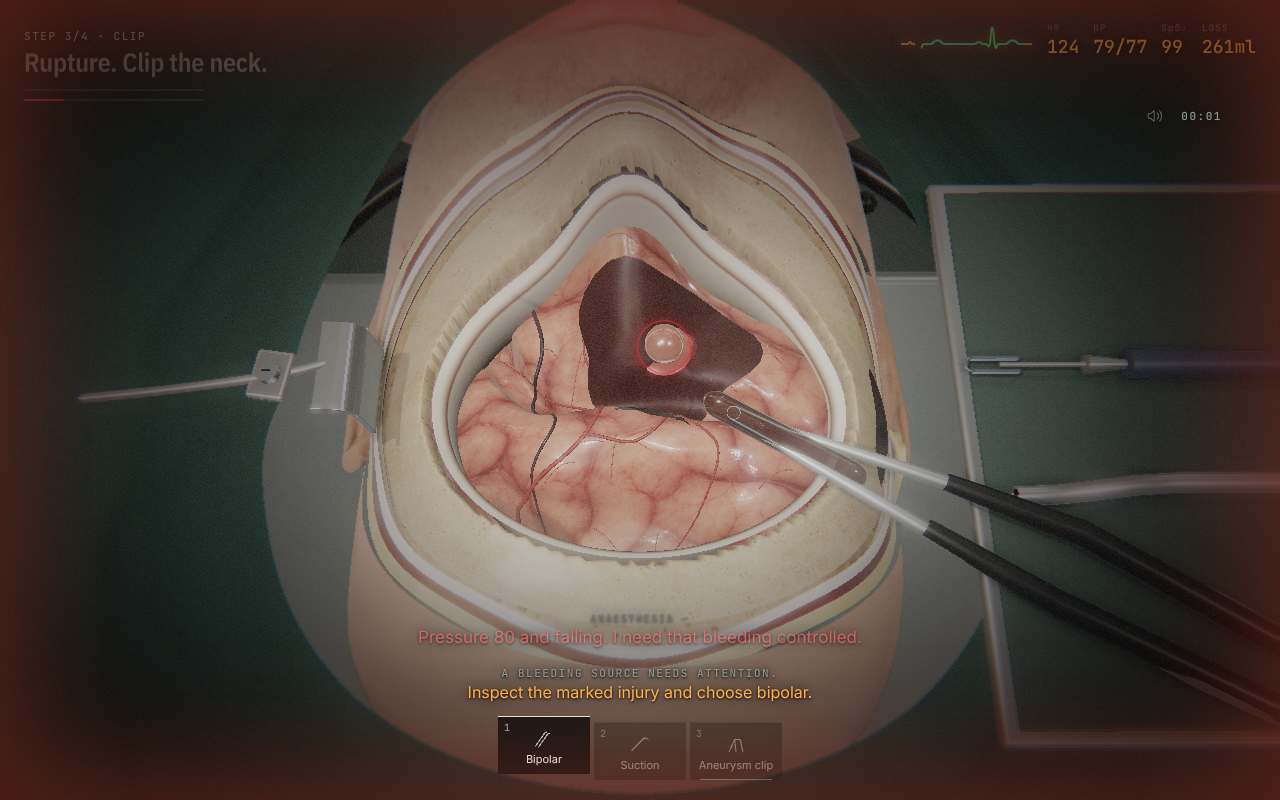
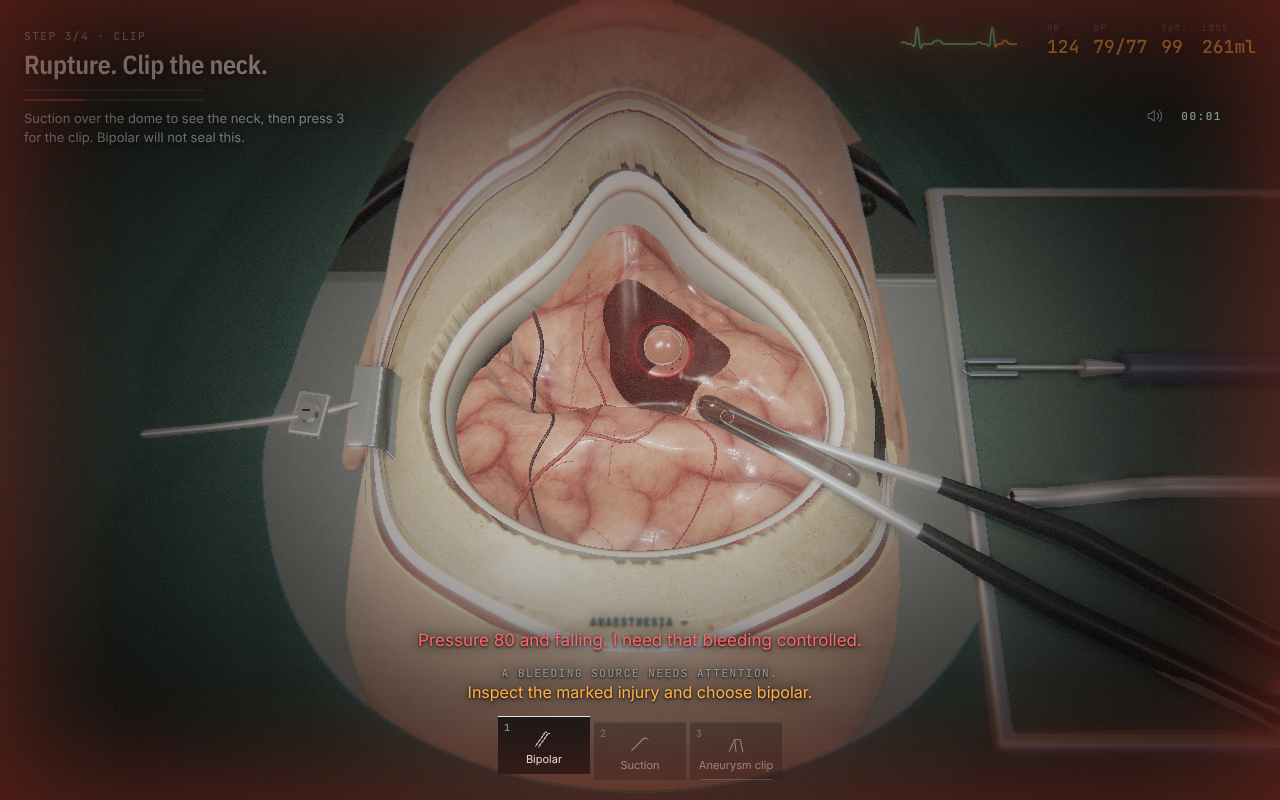
Review fixes: raw-edge scalp seam, no-head fallback, retractor on skull, aim by bisection, load ordering, depth material disposal
Claude-Session: https://claude.ai/code/session_01KH8wVLk59Yy76nRwxWbc5r

diff --git a/src/game/engine.ts b/src/game/engine.ts
@@ -134,7 +134,6 @@ export class Engine {
   softTissue: SoftTissue | null = null;
   accessPhase: "bone" | "lifting" | "surgery" = "bone";
   trayView = false;
-  /** A scrub-nurse handoff in progress: the old tool drops out, the new one rises in. */
   skull = new Skull();
   patient: PatientHead | null = null;
   /** Re-sample the skull surface after the head has moved (also used to tune the pose in development). */
@@ -461,9 +460,11 @@ export class Engine {
         /* the built-in room environment stays */
       }
       try {
-        this.patient = await loadPatientHead(assetBase, loader);
-        this.scene.add(this.patient.mesh);
+        const head = await loadPatientHead(assetBase, loader);
+        if (this.disposed) return;
+        this.patient = head;
         this.rebuildSkull();
+        this.scene.add(head.mesh);
       } catch {
         this.patient = null; // the flat plate with a gentle dome remains
       }
@@ -790,15 +791,30 @@ export class Engine {
       if (strict && this.ray.ray.direction.z > -0.15) return; // looking sideways: nothing to cut
       // Aim on the original convex shell so a deepening groove cannot pull
       // the pointer sideways. Working depth follows the carved surface.
+      // The skull is curved, so solve ray.z(t) = bone(x, y) by marching and bisecting.
       const p = new THREE.Vector3();
-      let z = 0.5;
-      for (let i = 0; i < 5; i++) {
-        this.ray.ray.at(
-          (z - this.ray.ray.origin.z) / this.ray.ray.direction.z,
-          p,
-        );
-        z = this.bone.height(p.x, p.y);
+      const gap = (t: number) => {
+        this.ray.ray.at(t, p);
+        return p.z - this.bone!.height(p.x, p.y);
+      };
+      let lo = 0,
+        hi = 0,
+        found = false;
+      for (let t = 0.25; t < 60; t += 0.25) {
+        if (gap(t) <= 0) {
+          hi = t;
+          lo = t - 0.25;
+          found = true;
+          break;
+        }
       }
+      if (!found) return;
+      for (let i = 0; i < 18; i++) {
+        const mid = (lo + hi) / 2;
+        if (gap(mid) > 0) lo = mid;
+        else hi = mid;
+      }
+      this.ray.ray.at(hi, p);
       this.target.x = THREE.MathUtils.clamp(p.x, -1.75, 1.75);
       this.target.y = THREE.MathUtils.clamp(p.y, -1.5, 1.5);
       return;
@@ -1199,7 +1215,7 @@ export class Engine {
         this.target.z = THREE.MathUtils.clamp(
           this.target.z -
             Math.sign(e.deltaY) * (this.precision ? 0.012 : 0.045),
-          -0.55,
+          -1.2,
           1.2,
         );
         this.state.depth = this.target.z;
@@ -1287,7 +1303,7 @@ export class Engine {
       if (e.key.toLowerCase() === "m") this.setDepthAssist(!this.depthAssist);
       if (e.key.toLowerCase() === "f" && !this.depthAssist)
         this.target.z = Math.max(
-          -0.55,
+          -1.2,
           this.target.z - (this.precision ? 0.01 : 0.035),
         );
       if (e.key.toLowerCase() === "r" && !this.depthAssist)
@@ -1758,6 +1774,7 @@ export class Engine {
           geometries.add(o.geometry);
           for (const m of Array.isArray(o.material) ? o.material : [o.material])
             materials.add(m);
+          if (o.customDepthMaterial) materials.add(o.customDepthMaterial);
         }
       });
     for (const m of materials) {

diff --git a/src/game/skull.ts b/src/game/skull.ts
@@ -6,7 +6,7 @@ export const SCALP_THICKNESS = 0.17;
 /** Where the table drape lies, well below the head. */
 export const TABLE_Z = -4.6;
 /** The incision, as an ellipse radius in field units: the scanned skin is removed inside this. */
-export const WINDOW_RADIUS = 2.12;
+export const WINDOW_RADIUS = 2.03;
 
 /**
  * The patient's skull: scalp height as a function of position, sampled from the
@@ -64,7 +64,11 @@ export class Skull {
   /** Surface the drape lies on: over the head, tenting smoothly down to the table. */
   drape(x: number, y: number) {
     const g = this.drapeGrid;
-    if (!g) return TABLE_Z;
+    if (!g) {
+      // No head: a plain cloth over the gentle dome, falling away to the table.
+      const r = Math.hypot(x, y / 0.84);
+      return Math.max(TABLE_Z, this.fallback(x, y) + SCALP_THICKNESS - 0.35 * Math.max(0, r - 2.3));
+    }
     const fx = (x - this.x0) / this.step,
       fy = (y - this.y0) / this.step;
     const ix = Math.floor(fx),
@@ -166,7 +170,7 @@ export class Skull {
     // The scan is a coarse mesh: smooth the sampled heights so the layered scalp
     // edge and the bone follow a clean curve instead of the triangle facets.
     let src = grid;
-    for (let pass = 0; pass < 5; pass++) {
+    for (let pass = 0; pass < 3; pass++) {
       const out = new Float32Array(src.length);
       for (let j = 0; j < this.ny; j++)
         for (let i = 0; i < this.nx; i++) {
@@ -182,8 +186,10 @@ export class Skull {
               const ii = i + di,
                 jj = j + dj;
               if (ii < 0 || jj < 0 || ii >= this.nx || jj >= this.ny) continue;
-              const v = src[jj * this.nx + ii];
-              if (Number.isNaN(v)) continue;
+              // Past the silhouette, lean on the centre sample instead of dropping the
+              // neighbour: averaging only the higher inward cells would lift the rim.
+              let v = src[jj * this.nx + ii];
+              if (Number.isNaN(v)) v = src[k];
               const wt = di === 0 && dj === 0 ? 4 : di === 0 || dj === 0 ? 2 : 1;
               sum += v * wt;
               w += wt;

diff --git a/src/game/scene.ts b/src/game/scene.ts
@@ -166,7 +166,7 @@ export function buildField(
     color: 0x2f7468,
     side: THREE.DoubleSide,
   });
-  mesh(ringGeometry(2.9, 30, 0, true, false, (x, y) => skull.drape(x, y)), cloth, scene);
+  mesh(ringGeometry(skull.hasHead ? 2.9 : 2.12, 30, 0, true, false, (x, y) => skull.drape(x, y)), cloth, scene);
   const bone = new THREE.MeshPhysicalMaterial({
     color: 0xcdb995,
     map: boneTexture,
@@ -294,6 +294,8 @@ export function buildField(
   // Thin curved blade, machined arm and small knurled adjustment wheel.
   const retractor = new THREE.Group();
   scene.add(retractor);
+  // The blade rests on the edge of the bone window, wherever the curved skull puts it.
+  retractor.position.z = skull.bone(-1.7, 0.2) - 0.36;
   const polished = new THREE.MeshStandardMaterial({
     color: 0xa9b1b2,
     metalness: 0.94,
